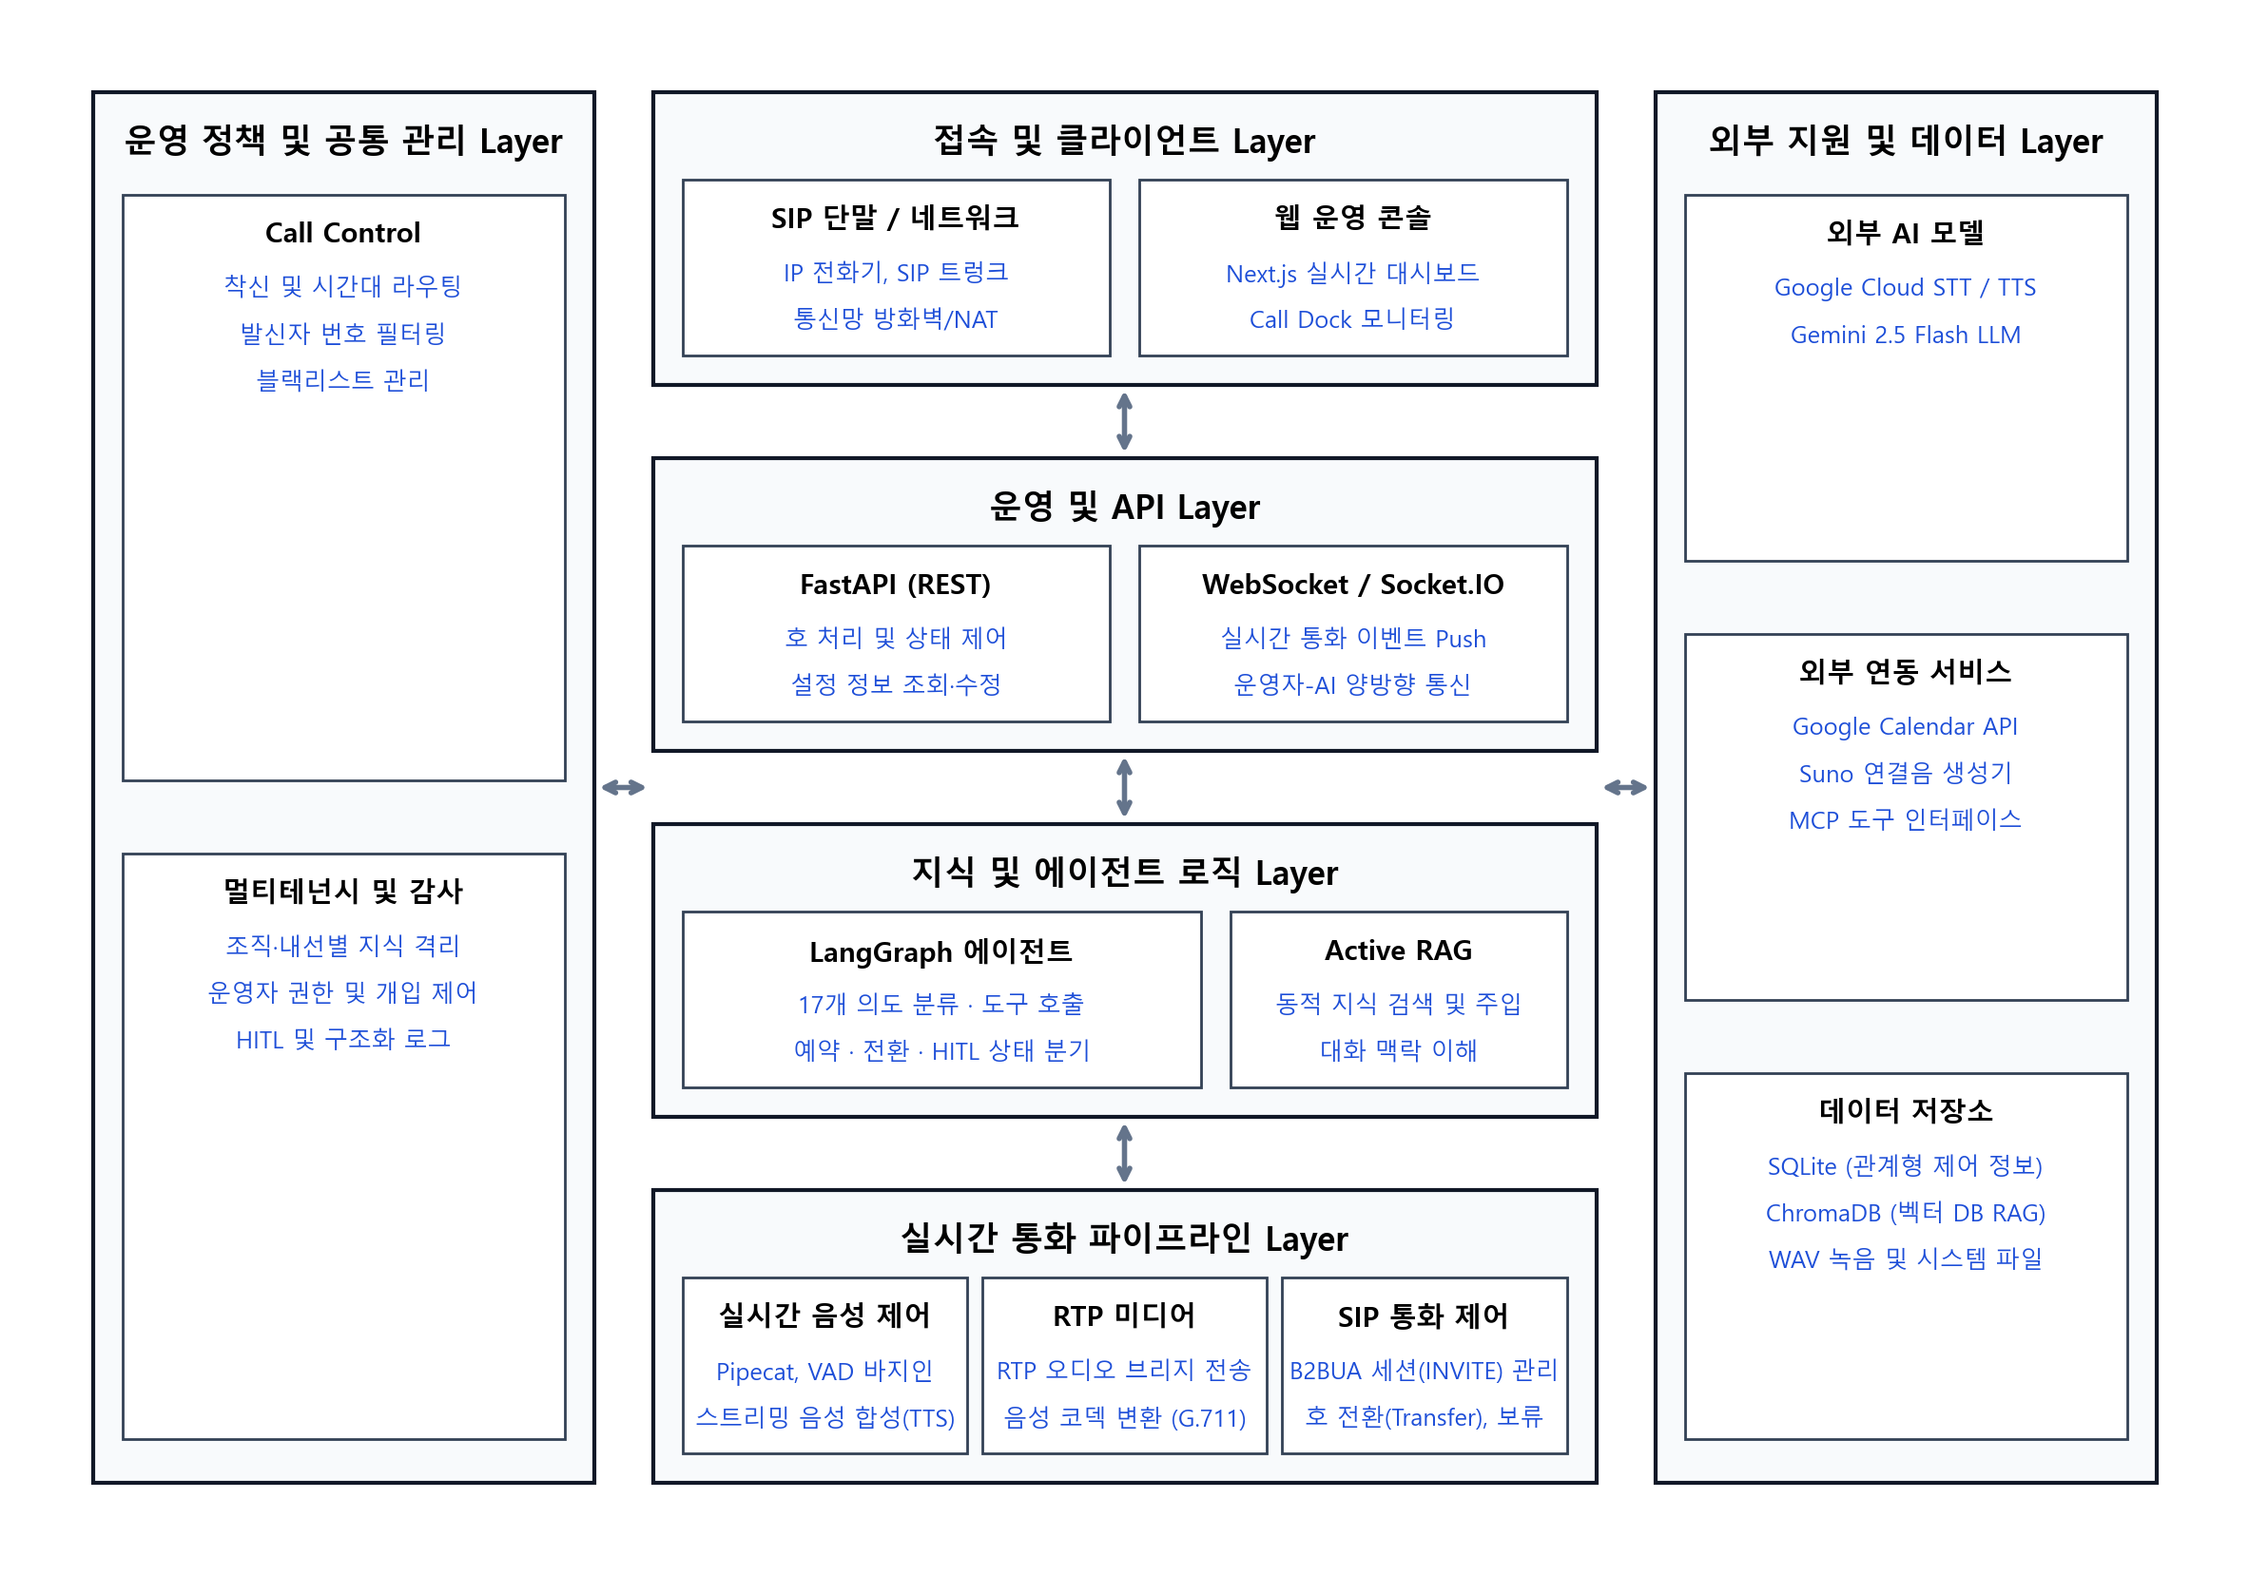
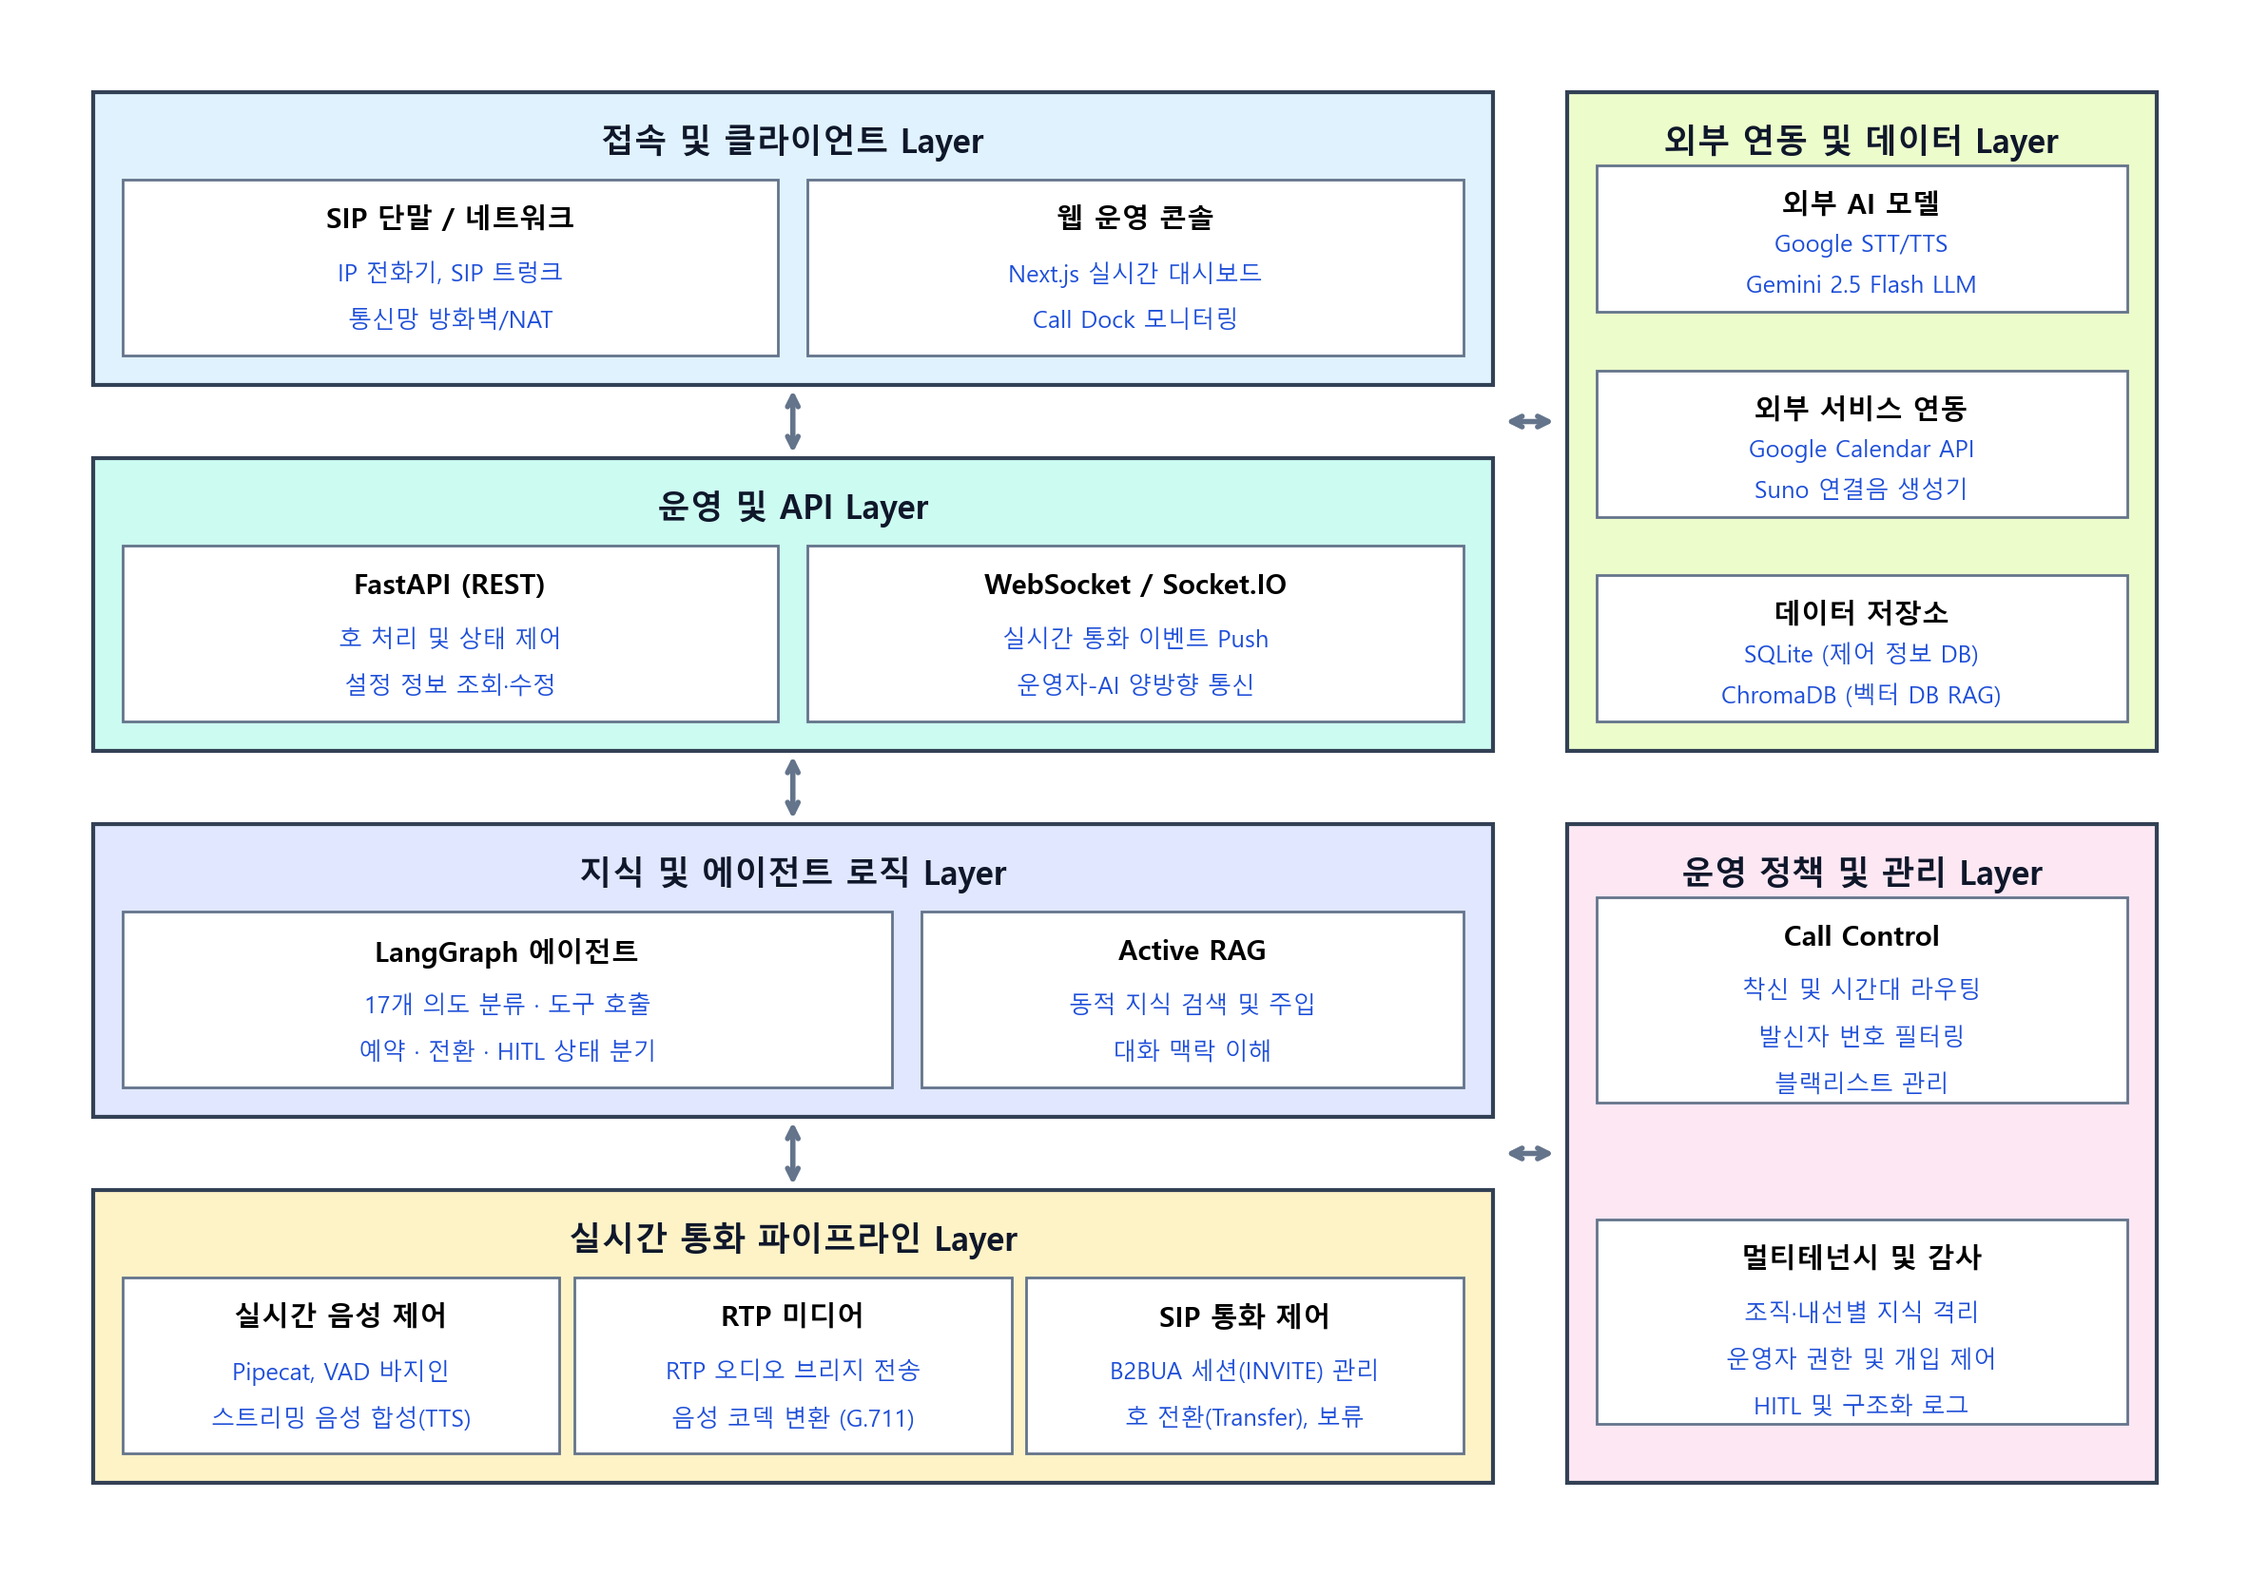
docs: 3.2 블록형 아키텍처 우측 기둥 통합 및 레이어별 색상 적용
Made-with: Cursor

diff --git a/docs/presentation/images/generate_block_arch_diagram.py b/docs/presentation/images/generate_block_arch_diagram.py
@@ -1,5 +1,5 @@
 """
-블록형 아키텍처 PNG 생성기 — PROJECT_BRIEF §3.2 용 (Layered & Pillared Block Style)
+블록형 아키텍처 PNG 생성기 — PROJECT_BRIEF §3.2 용 (Layered & Right Pillared Block Style with Colors)
 실행: python docs/presentation/images/generate_block_arch_diagram.py
 의존: pip install matplotlib
 """
@@ -26,27 +26,27 @@ def pick_korean_font_family() -> str | None:
             return name
     return None
 
-def draw_container(ax, x: float, y: float, w: float, h: float, title: str):
+def draw_container(ax, x: float, y: float, w: float, h: float, title: str, facecolor: str = "#f8fafc"):
     """큰 컨테이너 (Layer) 박스를 그립니다."""
     # Outer box
-    rect = mpatches.Rectangle((x, y), w, h, linewidth=1.5, edgecolor="#111827", facecolor="#f8fafc", zorder=1)
+    rect = mpatches.Rectangle((x, y), w, h, linewidth=1.5, edgecolor="#334155", facecolor=facecolor, zorder=1)
     ax.add_patch(rect)
     # Title
-    ax.text(x + w / 2, y + h - 0.35, title, fontsize=12.5, fontweight='bold', color='black', ha='center', va='center', zorder=2)
+    ax.text(x + w / 2, y + h - 0.35, title, fontsize=12.5, fontweight='bold', color='#0f172a', ha='center', va='center', zorder=2)
 
-def draw_subblock(ax, x: float, y: float, w: float, h: float, title: str, lines: list[str]):
+def draw_subblock(ax, x: float, y: float, w: float, h: float, title: str, lines: list[str], lines_y_start: float = 0.65, line_spacing: float = 0.32):
     """작은 내부 블록 (Component) 박스를 그립니다."""
-    rect = mpatches.Rectangle((x, y), w, h, linewidth=1.0, edgecolor="#334155", facecolor="white", zorder=2)
+    rect = mpatches.Rectangle((x, y), w, h, linewidth=1.0, edgecolor="#64748b", facecolor="white", zorder=2)
     ax.add_patch(rect)
     
     # Subblock title
     ax.text(x + w / 2, y + h - 0.28, title, fontsize=10.5, fontweight='bold', color='black', ha='center', va='center', zorder=3)
     
     # Details in blue
-    ty = y + h - 0.65
+    ty = y + h - lines_y_start
     for line in lines:
         ax.text(x + w / 2, ty, line, fontsize=9.0, color="#1d4ed8", ha='center', va='center', zorder=3)
-        ty -= 0.32
+        ty -= line_spacing
 
 def draw_double_arrow_v(ax, x, y1, y2):
     ax.annotate("", xy=(x, y2), xytext=(x, y1), arrowprops=dict(arrowstyle="<->", color="#64748b", lw=2.0), zorder=0)
@@ -69,42 +69,52 @@ def main() -> None:
     ax.axis("off")
     fig.patch.set_facecolor('white')
 
-    # ========== Left Pillar (운영 정책 및 관리) ==========
-    draw_container(ax, 0.5, 0.5, 3.4, 9.5, "운영 정책 및 공통 관리 Layer")
-    draw_subblock(ax, 0.7, 5.3, 3.0, 4.0, "Call Control", ["착신 및 시간대 라우팅", "발신자 번호 필터링", "블랙리스트 관리"])
-    draw_subblock(ax, 0.7, 0.8, 3.0, 4.0, "멀티테넌시 및 감사", ["조직·내선별 지식 격리", "운영자 권한 및 개입 제어", "HITL 및 구조화 로그"])
-
-    # ========== Right Pillar (외부 지원 및 데이터) ==========
-    draw_container(ax, 11.1, 0.5, 3.4, 9.5, "외부 지원 및 데이터 Layer")
-    draw_subblock(ax, 11.3, 6.8, 3.0, 2.5, "외부 AI 모델", ["Google Cloud STT / TTS", "Gemini 2.5 Flash LLM"])
-    draw_subblock(ax, 11.3, 3.8, 3.0, 2.5, "외부 연동 서비스", ["Google Calendar API", "Suno 연결음 생성기", "MCP 도구 인터페이스"])
-    draw_subblock(ax, 11.3, 0.8, 3.0, 2.5, "데이터 저장소", ["SQLite (관계형 제어 정보)", "ChromaDB (벡터 DB RAG)", "WAV 녹음 및 시스템 파일"])
-
-    # ========== Central Stack ==========
-    cx = 4.3
-    cw = 6.4
+    # 레이아웃 정의: 중앙 스택(Left)과 우측 기둥(Right)
+    cx = 0.5
+    cw = 9.5
     
-    # 1. 접속 및 클라이언트 (Top)
-    draw_container(ax, cx, 8.0, cw, 2.0, "접속 및 클라이언트 Layer")
-    draw_subblock(ax, cx + 0.2, 8.2, cw / 2 - 0.3, 1.2, "SIP 단말 / 네트워크", ["IP 전화기, SIP 트렁크", "통신망 방화벽/NAT"])
-    draw_subblock(ax, cx + cw / 2 + 0.1, 8.2, cw / 2 - 0.3, 1.2, "웹 운영 콘솔", ["Next.js 실시간 대시보드", "Call Dock 모니터링"])
+    rx = 10.5
+    rw = 4.0
 
-    # 2. 운영 및 API
-    draw_container(ax, cx, 5.5, cw, 2.0, "운영 및 API Layer")
-    draw_subblock(ax, cx + 0.2, 5.7, cw / 2 - 0.3, 1.2, "FastAPI (REST)", ["호 처리 및 상태 제어", "설정 정보 조회·수정"])
-    draw_subblock(ax, cx + cw / 2 + 0.1, 5.7, cw / 2 - 0.3, 1.2, "WebSocket / Socket.IO", ["실시간 통화 이벤트 Push", "운영자-AI 양방향 통신"])
+    # ================= 중앙 스택 (핵심 레이어 적층) =================
+    
+    # 1. 접속 및 클라이언트 (Top) - Light Blue
+    draw_container(ax, cx, 8.0, cw, 2.0, "접속 및 클라이언트 Layer", facecolor="#e0f2fe")
+    sub_w1 = (cw - 0.6) / 2
+    draw_subblock(ax, cx + 0.2, 8.2, sub_w1, 1.2, "SIP 단말 / 네트워크", ["IP 전화기, SIP 트렁크", "통신망 방화벽/NAT"])
+    draw_subblock(ax, cx + 0.4 + sub_w1, 8.2, sub_w1, 1.2, "웹 운영 콘솔", ["Next.js 실시간 대시보드", "Call Dock 모니터링"])
 
-    # 3. 지식 및 에이전트 로직
-    draw_container(ax, cx, 3.0, cw, 2.0, "지식 및 에이전트 로직 Layer")
+    # 2. 운영 및 API - Light Teal
+    draw_container(ax, cx, 5.5, cw, 2.0, "운영 및 API Layer", facecolor="#ccfbf1")
+    draw_subblock(ax, cx + 0.2, 5.7, sub_w1, 1.2, "FastAPI (REST)", ["호 처리 및 상태 제어", "설정 정보 조회·수정"])
+    draw_subblock(ax, cx + 0.4 + sub_w1, 5.7, sub_w1, 1.2, "WebSocket / Socket.IO", ["실시간 통화 이벤트 Push", "운영자-AI 양방향 통신"])
+
+    # 3. 지식 및 에이전트 로직 - Light Indigo
+    draw_container(ax, cx, 3.0, cw, 2.0, "지식 및 에이전트 로직 Layer", facecolor="#e0e7ff")
     draw_subblock(ax, cx + 0.2, 3.2, cw * 0.55, 1.2, "LangGraph 에이전트", ["17개 의도 분류 · 도구 호출", "예약 · 전환 · HITL 상태 분기"])
     draw_subblock(ax, cx + cw * 0.55 + 0.4, 3.2, cw * 0.45 - 0.6, 1.2, "Active RAG", ["동적 지식 검색 및 주입", "대화 맥락 이해"])
 
-    # 4. 실시간 통화 파이프라인 (Bottom)
-    draw_container(ax, cx, 0.5, cw, 2.0, "실시간 통화 파이프라인 Layer")
-    sw = (cw - 0.6) / 3
-    draw_subblock(ax, cx + 0.2, 0.7, sw, 1.2, "실시간 음성 제어", ["Pipecat, VAD 바지인", "스트리밍 음성 합성(TTS)"])
-    draw_subblock(ax, cx + 0.2 + sw + 0.1, 0.7, sw, 1.2, "RTP 미디어", ["RTP 오디오 브리지 전송", "음성 코덱 변환 (G.711)"])
-    draw_subblock(ax, cx + 0.2 + sw * 2 + 0.2, 0.7, sw, 1.2, "SIP 통화 제어", ["B2BUA 세션(INVITE) 관리", "호 전환(Transfer), 보류"])
+    # 4. 실시간 통화 파이프라인 (Bottom) - Light Amber
+    draw_container(ax, cx, 0.5, cw, 2.0, "실시간 통화 파이프라인 Layer", facecolor="#fef3c7")
+    sub_w4 = (cw - 0.6) / 3
+    draw_subblock(ax, cx + 0.2, 0.7, sub_w4, 1.2, "실시간 음성 제어", ["Pipecat, VAD 바지인", "스트리밍 음성 합성(TTS)"])
+    draw_subblock(ax, cx + 0.2 + sub_w4 + 0.1, 0.7, sub_w4, 1.2, "RTP 미디어", ["RTP 오디오 브리지 전송", "음성 코덱 변환 (G.711)"])
+    draw_subblock(ax, cx + 0.2 + sub_w4 * 2 + 0.2, 0.7, sub_w4, 1.2, "SIP 통화 제어", ["B2BUA 세션(INVITE) 관리", "호 전환(Transfer), 보류"])
+
+    # ================= 우측 기둥 (관리 및 외부 연동) =================
+
+    # Top Right Pillar: 외부 지원 및 데이터 - Light Green / Yellow
+    draw_container(ax, rx, 5.5, rw, 4.5, "외부 연동 및 데이터 Layer", facecolor="#ecfccb")
+    rsub_w = rw - 0.4
+    draw_subblock(ax, rx + 0.2, 8.5, rsub_w, 1.0, "외부 AI 모델", ["Google STT/TTS", "Gemini 2.5 Flash LLM"], lines_y_start=0.55, line_spacing=0.28)
+    draw_subblock(ax, rx + 0.2, 7.1, rsub_w, 1.0, "외부 서비스 연동", ["Google Calendar API", "Suno 연결음 생성기"], lines_y_start=0.55, line_spacing=0.28)
+    draw_subblock(ax, rx + 0.2, 5.7, rsub_w, 1.0, "데이터 저장소", ["SQLite (제어 정보 DB)", "ChromaDB (벡터 DB RAG)"], lines_y_start=0.55, line_spacing=0.28)
+
+    # Bottom Right Pillar: 운영 정책 및 공통 관리 - Light Rose / Pink
+    draw_container(ax, rx, 0.5, rw, 4.5, "운영 정책 및 관리 Layer", facecolor="#fce7f3")
+    draw_subblock(ax, rx + 0.2, 3.1, rsub_w, 1.4, "Call Control", ["착신 및 시간대 라우팅", "발신자 번호 필터링", "블랙리스트 관리"])
+    draw_subblock(ax, rx + 0.2, 0.9, rsub_w, 1.4, "멀티테넌시 및 감사", ["조직·내선별 지식 격리", "운영자 권한 및 개입 제어", "HITL 및 구조화 로그"])
+
 
     # ========== Arrows ==========
     # Vertical arrows in the center stack
@@ -112,11 +122,9 @@ def main() -> None:
     draw_double_arrow_v(ax, cx + cw / 2, 5.0, 5.5)
     draw_double_arrow_v(ax, cx + cw / 2, 2.5, 3.0)
 
-    # Horizontal arrows connecting stack to pillars
-    # Left pillar to stack
-    draw_double_arrow_h(ax, 3.9, 4.3, 5.25)
-    # Stack to right pillar
-    draw_double_arrow_h(ax, 10.7, 11.1, 5.25)
+    # Horizontal arrows connecting stack to right pillars
+    draw_double_arrow_h(ax, cx + cw + 0.05, rx - 0.05, 7.75) # Top right pillar link
+    draw_double_arrow_h(ax, cx + cw + 0.05, rx - 0.05, 2.75) # Bottom right pillar link
 
     fig.savefig(out_path, bbox_inches='tight', pad_inches=0.1)
     plt.close(fig)

diff --git a/docs/presentation/PROJECT_BRIEF.md b/docs/presentation/PROJECT_BRIEF.md
@@ -88,7 +88,8 @@ Agentic AI Callbot은 표준 SIP 기반 통화 제어 위에 실시간 음성 AI
 ### 3.2 블록형 아키텍처 (플랫폼·데이터·외부 서비스)
 
 플랫폼을 **블록형**으로 정리한 그림입니다.  
-**중앙**은 기능을 위→아래로 적층하고(큰 레이어 안에 작은 블록 배치), **좌측**은 Call Control·멀티테넌시 등 운영 공통, **우측**은 외부 AI·연동·저장소를 두었습니다. 6개 레이어 번호 대신 역할에 따라 묶고 구조적 가독성을 높였습니다.
+**좌측 주 영역(중앙 스택)**은 핵심 통화 및 AI 기능을 위→아래로 적층하고, **우측 기둥** 한 곳에 외부 연동과 저장소, 그리고 운영 정책·공통 관리를 위아래로 몰아서 배치했습니다.  
+또한 세로로 너무 길어지는 것을 방지하고, **레이어별로 부드러운 파스텔 톤 색상**을 다르게 적용하여 구조적 가독성을 한층 더 높였습니다.
 
 ![블록형 아키텍처](images/diagram_block_architecture.png)
 
@@ -97,14 +98,14 @@ Agentic AI Callbot은 표준 SIP 기반 통화 제어 위에 실시간 음성 AI
 
 **블록 요약**
 
-| 구역 | 포함 요소 |
-|------|-----------|
-| **좌측 (운영 정책·공통)** | **Call Control** (착신/시간대/발신 필터), **멀티테넌시·감사** (내선 격리, HITL 로그) |
-| **우측 (외부·데이터 지원)** | **외부 AI/연동** (Google STT/TTS, Gemini, Calendar, Suno), **저장소** (SQLite, ChromaDB) |
-| **중앙 (접속·클라이언트)** | SIP 단말·트렁크, 웹 운영 콘솔 (Next.js, Call Dock) |
-| **중앙 (운영·API)** | FastAPI REST, WebSocket / Socket.IO (실시간 이벤트) |
-| **중앙 (지식·에이전트)** | LangGraph (의도 분류, 도구 호출), Active RAG (동적 지식 주입) |
-| **중앙 (실시간 통화 파이프라인)** | Pipecat 실시간 음성 제어(VAD·바지인), RTP 미디어, SIP 통화 제어(B2BUA) |
+| 구역 | 색상 톤 | 포함 요소 |
+|------|---------|-----------|
+| **우측 (외부 연동·데이터)** | 🟩 연두 | **외부 AI/연동** (Google STT/TTS, Gemini, Calendar, Suno), **저장소** (SQLite, ChromaDB) |
+| **우측 (운영 정책·관리)** | 🟥 핑크 | **Call Control** (착신/시간대/발신 필터), **멀티테넌시·감사** (내선 격리, HITL 로그) |
+| **좌측 (접속·클라이언트)** | 🟦 파랑 | SIP 단말·트렁크, 웹 운영 콘솔 (Next.js, Call Dock) |
+| **좌측 (운영·API)** | 🩵 청록 | FastAPI REST, WebSocket / Socket.IO (실시간 이벤트) |
+| **좌측 (지식·에이전트)** | 🪻 남색 | LangGraph (의도 분류, 도구 호출), Active RAG (동적 지식 주입) |
+| **좌측 (실시간 음성 파이프라인)** | 🟨 노랑 | Pipecat 실시간 음성 제어(VAD·바지인), RTP 미디어, SIP 통화 제어(B2BUA) |
 
 설정에 따라 LLM·RAG 요약을 별도 DB에 적재하는 **옵션 로깅(asyncpg 등)** 이 붙을 수 있습니다 — 상세는 배포 환경의 `config` 기준입니다.
 
